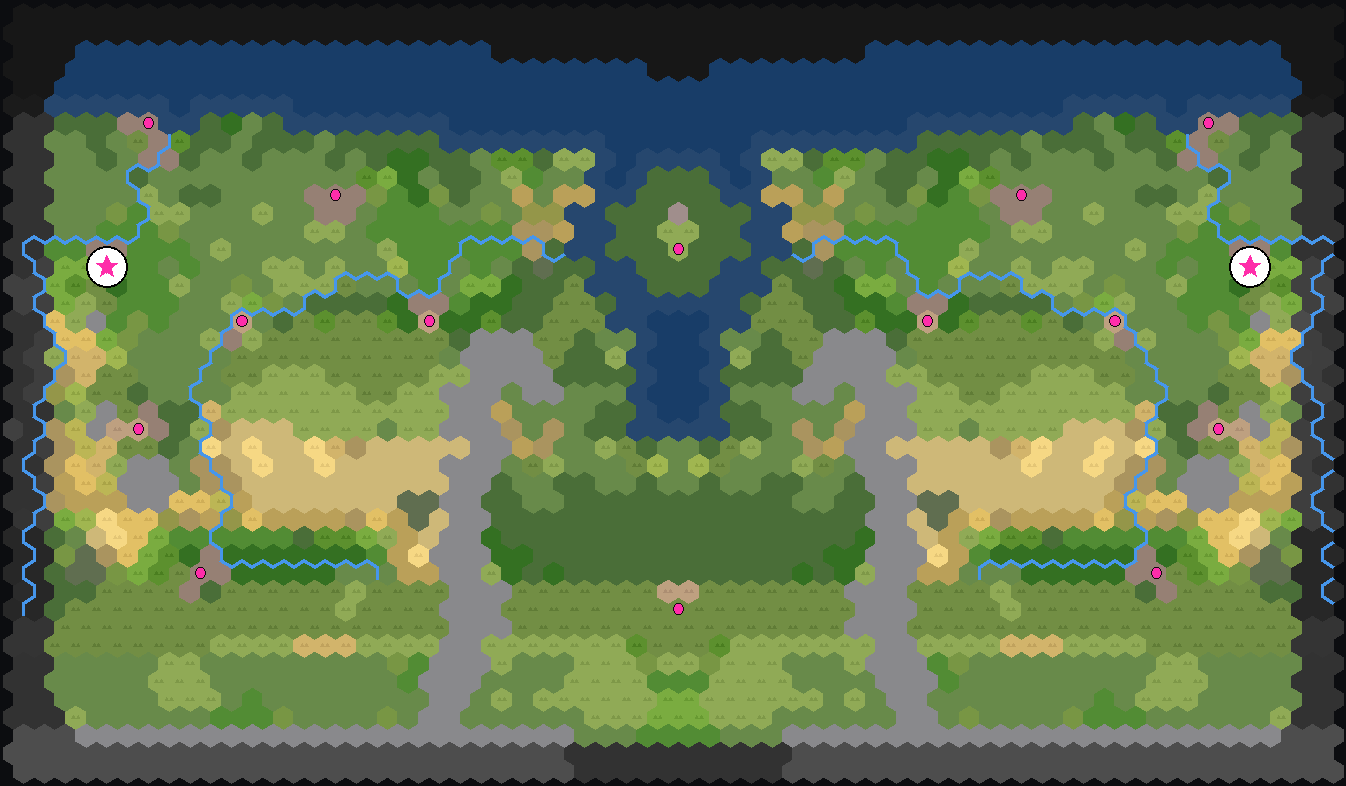
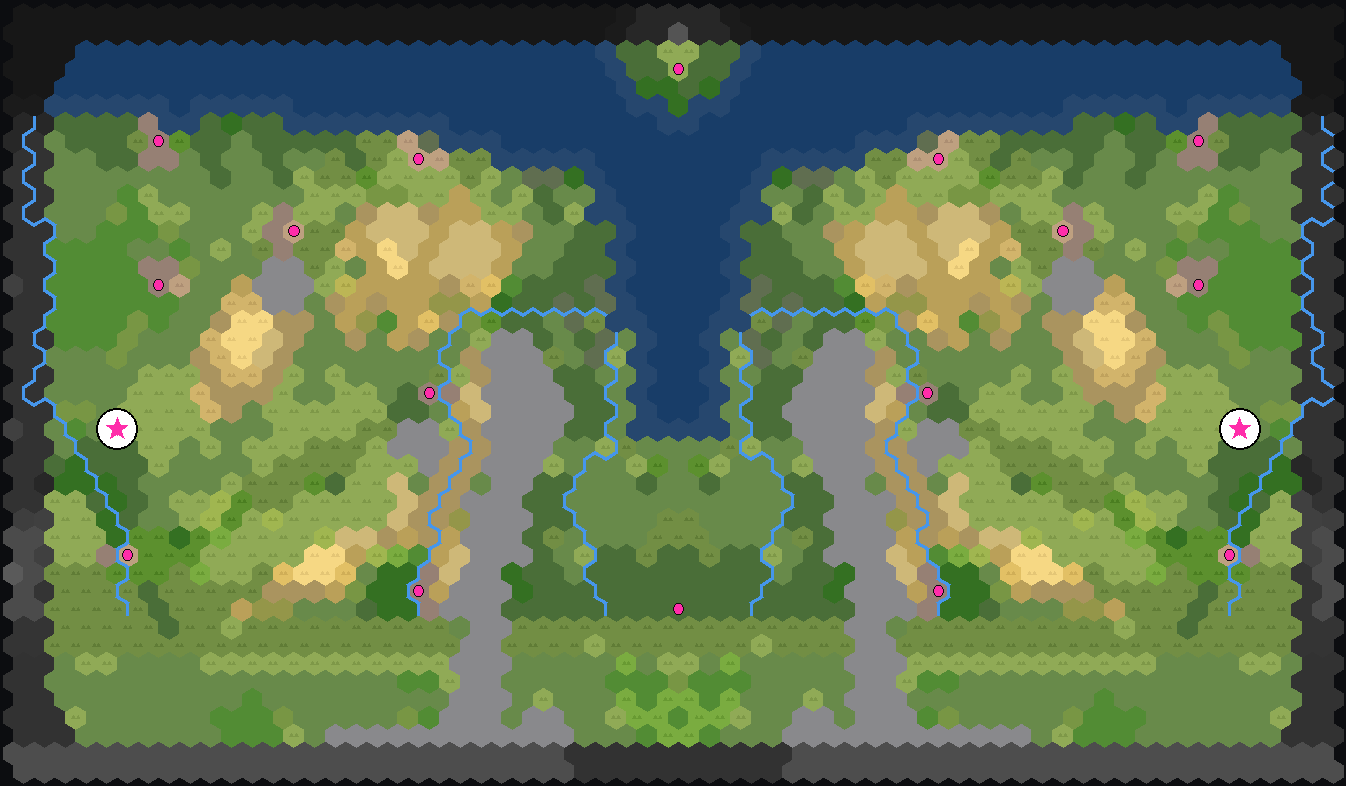
Wobbled organic range + half-island volcano at the sea edge
- the locked range's depth now varies per column (2-6 rows, the same
  mirror-symmetric random walk as the coastline) so it bulges into
  lobes and pulls back into foothill valleys instead of a ruler line;
  the engine grows organic peaks in the dips
- the volcanic island is now a HALF-island pressed against the sea
  edge: the cone juts out of the ocean at the map border, clipped by
  it, still sea-locked from the mainland by the water ring
- coastline wobble strengthened slightly (the bay-mouth basin no
  longer adds variety mid-map)
- sweep invariants: range must meander (>=3 distinct depths); island
  must touch the sea edge; second-wall band ends at the lobes (h-6);
  capital-boxed check now measures mountains only (coastal capitals
  with open water are fine); massif threshold 12 (pocket-fill headroom)

diff --git a/atlas/index.html b/atlas/index.html
@@ -34,7 +34,7 @@ h1 { margin: 0 0 4px; font: 600 18px/1.2 ui-monospace, Menlo, monospace;
 <header><h1>Caldera Bay — Climate Atlas</h1>
 <div class="sub">8 Mediterranean · 8 Temperate · 8 Northern (same seeds 1–8 per regime) ·
 <code>Climate (latitude)</code> map option</div></header>
-<h2 class="section">Mediterranean (warm) — 8 gens</h2><div class="grid"><div class="card"><img src="maps/Caldera_Bay_smallest_Mediterranean-1.png" loading="lazy"><div class="meta"><div class="seed">seed Mediterranean-1</div><div class="chips"><span class="chip">64×43</span><span class="chip">14% flat-lush</span><span class="chip">water 673</span><span class="chip">mtn 251</span><span class="chip bad">rivers 193</span><span class="chip bad">forest 387</span><span class="chip ok">2 starts</span><span class="chip ok">mirror-sym</span><span class="chip">sites 14</span><span class="chip">tribes 10</span><span class="chip">res 122</span></div></div></div><div class="card"><img src="maps/Caldera_Bay_smallest_Mediterranean-2.png" loading="lazy"><div class="meta"><div class="seed">seed Mediterranean-2</div><div class="chips"><span class="chip">64×43</span><span class="chip">10% flat-lush</span><span class="chip">water 565</span><span class="chip">mtn 249</span><span class="chip bad">rivers 183</span><span class="chip bad">forest 386</span><span class="chip ok">2 starts</span><span class="chip ok">mirror-sym</span><span class="chip">sites 16</span><span class="chip">tribes 12</span><span class="chip">res 124</span></div></div></div><div class="card"><img src="maps/Caldera_Bay_smallest_Mediterranean-3.png" loading="lazy"><div class="meta"><div class="seed">seed Mediterranean-3</div><div class="chips"><span class="chip">64×43</span><span class="chip">12% flat-lush</span><span class="chip">water 621</span><span class="chip">mtn 291</span><span class="chip bad">rivers 166</span><span class="chip bad">forest 335</span><span class="chip ok">2 starts</span><span class="chip ok">mirror-sym</span><span class="chip">sites 18</span><span class="chip">tribes 12</span><span class="chip">res 117</span></div></div></div><div class="card"><img src="maps/Caldera_Bay_smallest_Mediterranean-4.png" loading="lazy"><div class="meta"><div class="seed">seed Mediterranean-4</div><div class="chips"><span class="chip">64×43</span><span class="chip">11% flat-lush</span><span class="chip">water 562</span><span class="chip">mtn 269</span><span class="chip bad">rivers 211</span><span class="chip bad">forest 375</span><span class="chip ok">2 starts</span><span class="chip ok">mirror-sym</span><span class="chip">sites 18</span><span class="chip">tribes 12</span><span class="chip">res 130</span></div></div></div><div class="card"><img src="maps/Caldera_Bay_smallest_Mediterranean-5.png" loading="lazy"><div class="meta"><div class="seed">seed Mediterranean-5</div><div class="chips"><span class="chip">64×43</span><span class="chip">6% flat-lush</span><span class="chip">water 562</span><span class="chip">mtn 325</span><span class="chip bad">rivers 32</span><span class="chip bad">forest 391</span><span class="chip ok">2 starts</span><span class="chip ok">mirror-sym</span><span class="chip">sites 14</span><span class="chip">tribes 10</span><span class="chip">res 114</span></div></div></div><div class="card"><img src="maps/Caldera_Bay_smallest_Mediterranean-6.png" loading="lazy"><div class="meta"><div class="seed">seed Mediterranean-6</div><div class="chips"><span class="chip">64×43</span><span class="chip">12% flat-lush</span><span class="chip">water 529</span><span class="chip">mtn 301</span><span class="chip bad">rivers 192</span><span class="chip bad">forest 390</span><span class="chip ok">2 starts</span><span class="chip ok">mirror-sym</span><span class="chip">sites 16</span><span class="chip">tribes 12</span><span class="chip">res 129</span></div></div></div><div class="card"><img src="maps/Caldera_Bay_smallest_Mediterranean-7.png" loading="lazy"><div class="meta"><div class="seed">seed Mediterranean-7</div><div class="chips"><span class="chip">64×43</span><span class="chip">15% flat-lush</span><span class="chip">water 568</span><span class="chip">mtn 300</span><span class="chip bad">rivers 211</span><span class="chip bad">forest 266</span><span class="chip ok">2 starts</span><span class="chip ok">mirror-sym</span><span class="chip">sites 16</span><span class="chip">tribes 12</span><span class="chip">res 100</span></div></div></div><div class="card"><img src="maps/Caldera_Bay_smallest_Mediterranean-8.png" loading="lazy"><div class="meta"><div class="seed">seed Mediterranean-8</div><div class="chips"><span class="chip">64×43</span><span class="chip">9% flat-lush</span><span class="chip">water 629</span><span class="chip">mtn 295</span><span class="chip bad">rivers 213</span><span class="chip bad">forest 347</span><span class="chip ok">2 starts</span><span class="chip ok">mirror-sym</span><span class="chip">sites 18</span><span class="chip">tribes 12</span><span class="chip">res 108</span></div></div></div></div><h2 class="section">Temperate — 8 gens</h2><div class="grid"><div class="card"><img src="maps/Caldera_Bay_smallest_Temperate-1.png" loading="lazy"><div class="meta"><div class="seed">seed Temperate-1</div><div class="chips"><span class="chip">64×43</span><span class="chip">15% flat-lush</span><span class="chip">water 673</span><span class="chip">mtn 251</span><span class="chip bad">rivers 193</span><span class="chip bad">forest 419</span><span class="chip ok">2 starts</span><span class="chip ok">mirror-sym</span><span class="chip">sites 14</span><span class="chip">tribes 10</span><span class="chip">res 124</span></div></div></div><div class="card"><img src="maps/Caldera_Bay_smallest_Temperate-2.png" loading="lazy"><div class="meta"><div class="seed">seed Temperate-2</div><div class="chips"><span class="chip">64×43</span><span class="chip">11% flat-lush</span><span class="chip">water 565</span><span class="chip">mtn 249</span><span class="chip bad">rivers 183</span><span class="chip bad">forest 445</span><span class="chip ok">2 starts</span><span class="chip ok">mirror-sym</span><span class="chip">sites 16</span><span class="chip">tribes 12</span><span class="chip">res 121</span></div></div></div><div class="card"><img src="maps/Caldera_Bay_smallest_Temperate-3.png" loading="lazy"><div class="meta"><div class="seed">seed Temperate-3</div><div class="chips"><span class="chip">64×43</span><span class="chip">13% flat-lush</span><span class="chip">water 621</span><span class="chip">mtn 291</span><span class="chip bad">rivers 166</span><span class="chip bad">forest 380</span><span class="chip ok">2 starts</span><span class="chip ok">mirror-sym</span><span class="chip">sites 18</span><span class="chip">tribes 12</span><span class="chip">res 118</span></div></div></div><div class="card"><img src="maps/Caldera_Bay_smallest_Temperate-4.png" loading="lazy"><div class="meta"><div class="seed">seed Temperate-4</div><div class="chips"><span class="chip">64×43</span><span class="chip">11% flat-lush</span><span class="chip">water 562</span><span class="chip">mtn 269</span><span class="chip bad">rivers 211</span><span class="chip bad">forest 367</span><span class="chip ok">2 starts</span><span class="chip ok">mirror-sym</span><span class="chip">sites 18</span><span class="chip">tribes 12</span><span class="chip">res 133</span></div></div></div><div class="card"><img src="maps/Caldera_Bay_smallest_Temperate-5.png" loading="lazy"><div class="meta"><div class="seed">seed Temperate-5</div><div class="chips"><span class="chip">64×43</span><span class="chip">7% flat-lush</span><span class="chip">water 562</span><span class="chip">mtn 323</span><span class="chip bad">rivers 32</span><span class="chip bad">forest 424</span><span class="chip ok">2 starts</span><span class="chip ok">mirror-sym</span><span class="chip">sites 16</span><span class="chip">tribes 10</span><span class="chip">res 125</span></div></div></div><div class="card"><img src="maps/Caldera_Bay_smallest_Temperate-6.png" loading="lazy"><div class="meta"><div class="seed">seed Temperate-6</div><div class="chips"><span class="chip">64×43</span><span class="chip">13% flat-lush</span><span class="chip">water 529</span><span class="chip">mtn 301</span><span class="chip bad">rivers 192</span><span class="chip bad">forest 401</span><span class="chip ok">2 starts</span><span class="chip ok">mirror-sym</span><span class="chip">sites 18</span><span class="chip">tribes 12</span><span class="chip">res 122</span></div></div></div><div class="card"><img src="maps/Caldera_Bay_smallest_Temperate-7.png" loading="lazy"><div class="meta"><div class="seed">seed Temperate-7</div><div class="chips"><span class="chip">64×43</span><span class="chip">16% flat-lush</span><span class="chip">water 568</span><span class="chip">mtn 300</span><span class="chip bad">rivers 211</span><span class="chip bad">forest 283</span><span class="chip ok">2 starts</span><span class="chip ok">mirror-sym</span><span class="chip">sites 16</span><span class="chip">tribes 12</span><span class="chip">res 119</span></div></div></div><div class="card"><img src="maps/Caldera_Bay_smallest_Temperate-8.png" loading="lazy"><div class="meta"><div class="seed">seed Temperate-8</div><div class="chips"><span class="chip">64×43</span><span class="chip">9% flat-lush</span><span class="chip">water 629</span><span class="chip">mtn 297</span><span class="chip bad">rivers 213</span><span class="chip bad">forest 377</span><span class="chip ok">2 starts</span><span class="chip ok">mirror-sym</span><span class="chip">sites 18</span><span class="chip">tribes 12</span><span class="chip">res 108</span></div></div></div></div><h2 class="section">Northern (cold) — 8 gens</h2><div class="grid"><div class="card"><img src="maps/Caldera_Bay_smallest_Northern-1.png" loading="lazy"><div class="meta"><div class="seed">seed Northern-1</div><div class="chips"><span class="chip">64×43</span><span class="chip">13% flat-lush</span><span class="chip">water 673</span><span class="chip">mtn 251</span><span class="chip bad">rivers 193</span><span class="chip bad">forest 416</span><span class="chip ok">2 starts</span><span class="chip ok">mirror-sym</span><span class="chip">sites 14</span><span class="chip">tribes 10</span><span class="chip">res 131</span></div></div></div><div class="card"><img src="maps/Caldera_Bay_smallest_Northern-2.png" loading="lazy"><div class="meta"><div class="seed">seed Northern-2</div><div class="chips"><span class="chip">64×43</span><span class="chip">8% flat-lush</span><span class="chip">water 565</span><span class="chip">mtn 249</span><span class="chip bad">rivers 183</span><span class="chip bad">forest 426</span><span class="chip ok">2 starts</span><span class="chip ok">mirror-sym</span><span class="chip">sites 16</span><span class="chip">tribes 12</span><span class="chip">res 132</span></div></div></div><div class="card"><img src="maps/Caldera_Bay_smallest_Northern-3.png" loading="lazy"><div class="meta"><div class="seed">seed Northern-3</div><div class="chips"><span class="chip">64×43</span><span class="chip">12% flat-lush</span><span class="chip">water 621</span><span class="chip">mtn 293</span><span class="chip bad">rivers 166</span><span class="chip bad">forest 378</span><span class="chip ok">2 starts</span><span class="chip ok">mirror-sym</span><span class="chip">sites 18</span><span class="chip">tribes 12</span><span class="chip">res 116</span></div></div></div><div class="card"><img src="maps/Caldera_Bay_smallest_Northern-4.png" loading="lazy"><div class="meta"><div class="seed">seed Northern-4</div><div class="chips"><span class="chip">64×43</span><span class="chip">11% flat-lush</span><span class="chip">water 562</span><span class="chip">mtn 269</span><span class="chip bad">rivers 211</span><span class="chip bad">forest 366</span><span class="chip ok">2 starts</span><span class="chip ok">mirror-sym</span><span class="chip">sites 18</span><span class="chip">tribes 12</span><span class="chip">res 135</span></div></div></div><div class="card"><img src="maps/Caldera_Bay_smallest_Northern-5.png" loading="lazy"><div class="meta"><div class="seed">seed Northern-5</div><div class="chips"><span class="chip">64×43</span><span class="chip">5% flat-lush</span><span class="chip">water 562</span><span class="chip">mtn 337</span><span class="chip bad">rivers 32</span><span class="chip bad">forest 428</span><span class="chip ok">2 starts</span><span class="chip ok">mirror-sym</span><span class="chip">sites 16</span><span class="chip">tribes 10</span><span class="chip">res 112</span></div></div></div><div class="card"><img src="maps/Caldera_Bay_smallest_Northern-6.png" loading="lazy"><div class="meta"><div class="seed">seed Northern-6</div><div class="chips"><span class="chip">64×43</span><span class="chip">13% flat-lush</span><span class="chip">water 529</span><span class="chip">mtn 301</span><span class="chip bad">rivers 192</span><span class="chip bad">forest 402</span><span class="chip ok">2 starts</span><span class="chip ok">mirror-sym</span><span class="chip">sites 18</span><span class="chip">tribes 12</span><span class="chip">res 92</span></div></div></div><div class="card"><img src="maps/Caldera_Bay_smallest_Northern-7.png" loading="lazy"><div class="meta"><div class="seed">seed Northern-7</div><div class="chips"><span class="chip">64×43</span><span class="chip">14% flat-lush</span><span class="chip">water 568</span><span class="chip">mtn 300</span><span class="chip bad">rivers 211</span><span class="chip bad">forest 285</span><span class="chip ok">2 starts</span><span class="chip ok">mirror-sym</span><span class="chip">sites 16</span><span class="chip">tribes 12</span><span class="chip">res 112</span></div></div></div><div class="card"><img src="maps/Caldera_Bay_smallest_Northern-8.png" loading="lazy"><div class="meta"><div class="seed">seed Northern-8</div><div class="chips"><span class="chip">64×43</span><span class="chip">9% flat-lush</span><span class="chip">water 629</span><span class="chip">mtn 295</span><span class="chip bad">rivers 213</span><span class="chip bad">forest 356</span><span class="chip ok">2 starts</span><span class="chip ok">mirror-sym</span><span class="chip">sites 18</span><span class="chip">tribes 12</span><span class="chip">res 120</span></div></div></div></div>
+<h2 class="section">Mediterranean (warm) — 8 gens</h2><div class="grid"><div class="card"><img src="maps/Caldera_Bay_smallest_Mediterranean-1.png" loading="lazy"><div class="meta"><div class="seed">seed Mediterranean-1</div><div class="chips"><span class="chip">64×43</span><span class="chip">12% flat-lush</span><span class="chip">water 675</span><span class="chip">mtn 353</span><span class="chip bad">rivers 192</span><span class="chip bad">forest 400</span><span class="chip ok">2 starts</span><span class="chip ok">mirror-sym</span><span class="chip">sites 16</span><span class="chip">tribes 12</span><span class="chip">res 98</span></div></div></div><div class="card"><img src="maps/Caldera_Bay_smallest_Mediterranean-2.png" loading="lazy"><div class="meta"><div class="seed">seed Mediterranean-2</div><div class="chips"><span class="chip">64×43</span><span class="chip">7% flat-lush</span><span class="chip">water 538</span><span class="chip">mtn 329</span><span class="chip bad">rivers 182</span><span class="chip bad">forest 385</span><span class="chip ok">2 starts</span><span class="chip ok">mirror-sym</span><span class="chip">sites 16</span><span class="chip">tribes 12</span><span class="chip">res 116</span></div></div></div><div class="card"><img src="maps/Caldera_Bay_smallest_Mediterranean-3.png" loading="lazy"><div class="meta"><div class="seed">seed Mediterranean-3</div><div class="chips"><span class="chip">64×43</span><span class="chip">13% flat-lush</span><span class="chip">water 604</span><span class="chip">mtn 259</span><span class="chip bad">rivers 179</span><span class="chip bad">forest 277</span><span class="chip ok">2 starts</span><span class="chip ok">mirror-sym</span><span class="chip">sites 14</span><span class="chip">tribes 10</span><span class="chip">res 122</span></div></div></div><div class="card"><img src="maps/Caldera_Bay_smallest_Mediterranean-4.png" loading="lazy"><div class="meta"><div class="seed">seed Mediterranean-4</div><div class="chips"><span class="chip">64×43</span><span class="chip">11% flat-lush</span><span class="chip">water 496</span><span class="chip">mtn 359</span><span class="chip bad">rivers 225</span><span class="chip bad">forest 384</span><span class="chip ok">2 starts</span><span class="chip ok">mirror-sym</span><span class="chip">sites 16</span><span class="chip">tribes 12</span><span class="chip">res 133</span></div></div></div><div class="card"><img src="maps/Caldera_Bay_smallest_Mediterranean-5.png" loading="lazy"><div class="meta"><div class="seed">seed Mediterranean-5</div><div class="chips"><span class="chip">64×43</span><span class="chip">10% flat-lush</span><span class="chip">water 572</span><span class="chip">mtn 359</span><span class="chip bad">rivers 202</span><span class="chip bad">forest 406</span><span class="chip ok">2 starts</span><span class="chip ok">mirror-sym</span><span class="chip">sites 16</span><span class="chip">tribes 10</span><span class="chip">res 111</span></div></div></div><div class="card"><img src="maps/Caldera_Bay_smallest_Mediterranean-6.png" loading="lazy"><div class="meta"><div class="seed">seed Mediterranean-6</div><div class="chips"><span class="chip">64×43</span><span class="chip">10% flat-lush</span><span class="chip">water 534</span><span class="chip">mtn 287</span><span class="chip bad">rivers 198</span><span class="chip bad">forest 351</span><span class="chip ok">2 starts</span><span class="chip ok">mirror-sym</span><span class="chip">sites 18</span><span class="chip">tribes 12</span><span class="chip">res 112</span></div></div></div><div class="card"><img src="maps/Caldera_Bay_smallest_Mediterranean-7.png" loading="lazy"><div class="meta"><div class="seed">seed Mediterranean-7</div><div class="chips"><span class="chip">64×43</span><span class="chip">15% flat-lush</span><span class="chip">water 535</span><span class="chip">mtn 275</span><span class="chip bad">rivers 197</span><span class="chip bad">forest 368</span><span class="chip ok">2 starts</span><span class="chip ok">mirror-sym</span><span class="chip">sites 16</span><span class="chip">tribes 12</span><span class="chip">res 110</span></div></div></div><div class="card"><img src="maps/Caldera_Bay_smallest_Mediterranean-8.png" loading="lazy"><div class="meta"><div class="seed">seed Mediterranean-8</div><div class="chips"><span class="chip">64×43</span><span class="chip">12% flat-lush</span><span class="chip">water 620</span><span class="chip">mtn 326</span><span class="chip bad">rivers 221</span><span class="chip bad">forest 298</span><span class="chip ok">2 starts</span><span class="chip ok">mirror-sym</span><span class="chip">sites 16</span><span class="chip">tribes 10</span><span class="chip">res 110</span></div></div></div></div><h2 class="section">Temperate — 8 gens</h2><div class="grid"><div class="card"><img src="maps/Caldera_Bay_smallest_Temperate-1.png" loading="lazy"><div class="meta"><div class="seed">seed Temperate-1</div><div class="chips"><span class="chip">64×43</span><span class="chip">12% flat-lush</span><span class="chip">water 675</span><span class="chip">mtn 345</span><span class="chip bad">rivers 192</span><span class="chip bad">forest 443</span><span class="chip ok">2 starts</span><span class="chip ok">mirror-sym</span><span class="chip">sites 16</span><span class="chip">tribes 12</span><span class="chip">res 108</span></div></div></div><div class="card"><img src="maps/Caldera_Bay_smallest_Temperate-2.png" loading="lazy"><div class="meta"><div class="seed">seed Temperate-2</div><div class="chips"><span class="chip">64×43</span><span class="chip">9% flat-lush</span><span class="chip">water 538</span><span class="chip">mtn 329</span><span class="chip bad">rivers 182</span><span class="chip bad">forest 443</span><span class="chip ok">2 starts</span><span class="chip ok">mirror-sym</span><span class="chip">sites 18</span><span class="chip">tribes 12</span><span class="chip">res 118</span></div></div></div><div class="card"><img src="maps/Caldera_Bay_smallest_Temperate-3.png" loading="lazy"><div class="meta"><div class="seed">seed Temperate-3</div><div class="chips"><span class="chip">64×43</span><span class="chip">13% flat-lush</span><span class="chip">water 604</span><span class="chip">mtn 247</span><span class="chip bad">rivers 179</span><span class="chip bad">forest 298</span><span class="chip ok">2 starts</span><span class="chip ok">mirror-sym</span><span class="chip">sites 14</span><span class="chip">tribes 10</span><span class="chip">res 108</span></div></div></div><div class="card"><img src="maps/Caldera_Bay_smallest_Temperate-4.png" loading="lazy"><div class="meta"><div class="seed">seed Temperate-4</div><div class="chips"><span class="chip">64×43</span><span class="chip">12% flat-lush</span><span class="chip">water 496</span><span class="chip">mtn 357</span><span class="chip bad">rivers 225</span><span class="chip bad">forest 417</span><span class="chip ok">2 starts</span><span class="chip ok">mirror-sym</span><span class="chip">sites 16</span><span class="chip">tribes 12</span><span class="chip">res 110</span></div></div></div><div class="card"><img src="maps/Caldera_Bay_smallest_Temperate-5.png" loading="lazy"><div class="meta"><div class="seed">seed Temperate-5</div><div class="chips"><span class="chip">64×43</span><span class="chip">10% flat-lush</span><span class="chip">water 572</span><span class="chip">mtn 359</span><span class="chip bad">rivers 202</span><span class="chip bad">forest 488</span><span class="chip ok">2 starts</span><span class="chip ok">mirror-sym</span><span class="chip">sites 16</span><span class="chip">tribes 12</span><span class="chip">res 102</span></div></div></div><div class="card"><img src="maps/Caldera_Bay_smallest_Temperate-6.png" loading="lazy"><div class="meta"><div class="seed">seed Temperate-6</div><div class="chips"><span class="chip">64×43</span><span class="chip">10% flat-lush</span><span class="chip">water 534</span><span class="chip">mtn 287</span><span class="chip bad">rivers 198</span><span class="chip bad">forest 375</span><span class="chip ok">2 starts</span><span class="chip ok">mirror-sym</span><span class="chip">sites 16</span><span class="chip">tribes 12</span><span class="chip">res 100</span></div></div></div><div class="card"><img src="maps/Caldera_Bay_smallest_Temperate-7.png" loading="lazy"><div class="meta"><div class="seed">seed Temperate-7</div><div class="chips"><span class="chip">64×43</span><span class="chip">15% flat-lush</span><span class="chip">water 535</span><span class="chip">mtn 275</span><span class="chip bad">rivers 197</span><span class="chip bad">forest 378</span><span class="chip ok">2 starts</span><span class="chip ok">mirror-sym</span><span class="chip">sites 16</span><span class="chip">tribes 12</span><span class="chip">res 135</span></div></div></div><div class="card"><img src="maps/Caldera_Bay_smallest_Temperate-8.png" loading="lazy"><div class="meta"><div class="seed">seed Temperate-8</div><div class="chips"><span class="chip">64×43</span><span class="chip">12% flat-lush</span><span class="chip">water 620</span><span class="chip">mtn 324</span><span class="chip bad">rivers 221</span><span class="chip bad">forest 361</span><span class="chip ok">2 starts</span><span class="chip ok">mirror-sym</span><span class="chip">sites 16</span><span class="chip">tribes 10</span><span class="chip">res 116</span></div></div></div></div><h2 class="section">Northern (cold) — 8 gens</h2><div class="grid"><div class="card"><img src="maps/Caldera_Bay_smallest_Northern-1.png" loading="lazy"><div class="meta"><div class="seed">seed Northern-1</div><div class="chips"><span class="chip">64×43</span><span class="chip">12% flat-lush</span><span class="chip">water 675</span><span class="chip">mtn 355</span><span class="chip bad">rivers 192</span><span class="chip bad">forest 440</span><span class="chip ok">2 starts</span><span class="chip ok">mirror-sym</span><span class="chip">sites 16</span><span class="chip">tribes 12</span><span class="chip">res 112</span></div></div></div><div class="card"><img src="maps/Caldera_Bay_smallest_Northern-2.png" loading="lazy"><div class="meta"><div class="seed">seed Northern-2</div><div class="chips"><span class="chip">64×43</span><span class="chip">6% flat-lush</span><span class="chip">water 538</span><span class="chip">mtn 329</span><span class="chip bad">rivers 182</span><span class="chip bad">forest 445</span><span class="chip ok">2 starts</span><span class="chip ok">mirror-sym</span><span class="chip">sites 16</span><span class="chip">tribes 12</span><span class="chip">res 115</span></div></div></div><div class="card"><img src="maps/Caldera_Bay_smallest_Northern-3.png" loading="lazy"><div class="meta"><div class="seed">seed Northern-3</div><div class="chips"><span class="chip">64×43</span><span class="chip">13% flat-lush</span><span class="chip">water 604</span><span class="chip">mtn 259</span><span class="chip bad">rivers 179</span><span class="chip bad">forest 293</span><span class="chip ok">2 starts</span><span class="chip ok">mirror-sym</span><span class="chip">sites 14</span><span class="chip">tribes 10</span><span class="chip">res 92</span></div></div></div><div class="card"><img src="maps/Caldera_Bay_smallest_Northern-4.png" loading="lazy"><div class="meta"><div class="seed">seed Northern-4</div><div class="chips"><span class="chip">64×43</span><span class="chip">11% flat-lush</span><span class="chip">water 496</span><span class="chip">mtn 357</span><span class="chip bad">rivers 225</span><span class="chip bad">forest 413</span><span class="chip ok">2 starts</span><span class="chip ok">mirror-sym</span><span class="chip">sites 18</span><span class="chip">tribes 12</span><span class="chip">res 112</span></div></div></div><div class="card"><img src="maps/Caldera_Bay_smallest_Northern-5.png" loading="lazy"><div class="meta"><div class="seed">seed Northern-5</div><div class="chips"><span class="chip">64×43</span><span class="chip">9% flat-lush</span><span class="chip">water 572</span><span class="chip">mtn 359</span><span class="chip bad">rivers 202</span><span class="chip bad">forest 465</span><span class="chip ok">2 starts</span><span class="chip ok">mirror-sym</span><span class="chip">sites 18</span><span class="chip">tribes 12</span><span class="chip">res 116</span></div></div></div><div class="card"><img src="maps/Caldera_Bay_smallest_Northern-6.png" loading="lazy"><div class="meta"><div class="seed">seed Northern-6</div><div class="chips"><span class="chip">64×43</span><span class="chip">10% flat-lush</span><span class="chip">water 534</span><span class="chip">mtn 287</span><span class="chip bad">rivers 198</span><span class="chip bad">forest 377</span><span class="chip ok">2 starts</span><span class="chip ok">mirror-sym</span><span class="chip">sites 16</span><span class="chip">tribes 12</span><span class="chip">res 124</span></div></div></div><div class="card"><img src="maps/Caldera_Bay_smallest_Northern-7.png" loading="lazy"><div class="meta"><div class="seed">seed Northern-7</div><div class="chips"><span class="chip">64×43</span><span class="chip">15% flat-lush</span><span class="chip">water 535</span><span class="chip">mtn 275</span><span class="chip bad">rivers 197</span><span class="chip bad">forest 365</span><span class="chip ok">2 starts</span><span class="chip ok">mirror-sym</span><span class="chip">sites 16</span><span class="chip">tribes 12</span><span class="chip">res 99</span></div></div></div><div class="card"><img src="maps/Caldera_Bay_smallest_Northern-8.png" loading="lazy"><div class="meta"><div class="seed">seed Northern-8</div><div class="chips"><span class="chip">64×43</span><span class="chip">11% flat-lush</span><span class="chip">water 620</span><span class="chip">mtn 326</span><span class="chip bad">rivers 221</span><span class="chip bad">forest 341</span><span class="chip ok">2 starts</span><span class="chip ok">mirror-sym</span><span class="chip">sites 16</span><span class="chip">tribes 12</span><span class="chip">res 118</span></div></div></div></div>
 <div id="lb"><img alt=""></div>
 <script>
 const lb = document.getElementById('lb'), lbimg = lb.querySelector('img');

diff --git a/tests/test_caldera_bay.py b/tests/test_caldera_bay.py
@@ -103,10 +103,13 @@ class CalderaBayMap(unittest.TestCase):
 
     def test_sea_at_least_five_tall(self):
         # the sea band on the sea edge is ≥5 tiles in every column (a line of
-        # ships can't easily wall it off).
+        # ships can't easily wall it off) — except where the half-island
+        # volcano juts out of the ocean at the map border.
         side, _ = self.sea_side()
         worst = 99
         for x in range(self.w):
+            if abs(x - (self.w - 1) / 2) <= 8:
+                continue                       # the half-island's columns
             d = 0
             ys = range(self.h) if side == "south" else range(self.h - 1, -1, -1)
             for y in ys:
@@ -119,7 +122,8 @@ class CalderaBayMap(unittest.TestCase):
 
     def test_one_sea_edge(self):
         side, edge = self.sea_side()
-        self.assertGreater(edge, self.w * 0.9, "the sea edge should be ~all water")
+        # ~all water apart from the half-island clipped by the border
+        self.assertGreater(edge, self.w * 0.8, "the sea edge should be ~all water")
         far = self.h - 1 if side == "south" else 0
         farw = sum(1 for x in range(self.w) if self.is_water(x, far))
         self.assertLess(farw, self.w * 0.3,
@@ -368,6 +372,8 @@ class CalderaBaySweep(unittest.TestCase):
                    else sum(1 for x in range(w) if wat(x, 0)))
             depth = 99
             for x in range(w):
+                if abs(x - (w - 1) / 2) <= 8:
+                    continue                  # the half-island's columns
                 dcol = 0
                 for y in (range(h) if south else range(h - 1, -1, -1)):
                     if wat(x, y):
@@ -377,13 +383,14 @@ class CalderaBaySweep(unittest.TestCase):
                 depth = min(depth, dcol)
             if not 14 <= sites <= 18:
                 problems.append(f"{name}: {sites} sites")
-            # no SECOND mountain wall in the piedmont band below the range, and
-            # no city sites wedged on a shelf against the range
+            # no SECOND mountain wall in the piedmont band below the range
+            # (the wobbled range's own lobes reach down to d=h-6), and no
+            # city sites wedged on a shelf against the range
             for y in range(h):
                 d = y if south else h - 1 - y
                 row_mtn = sum(1 for x in range(w)
                               if _t(tiles[y * w + x], "Height") == "HEIGHT_MOUNTAIN")
-                if h - 13 <= d < h - 3 and row_mtn > w * 0.3:
+                if h - 13 <= d < h - 6 and row_mtn > w * 0.3:
                     problems.append(f"{name}: second wall ({row_mtn} mtns at d={d})")
                 if d >= h - 8:
                     row_sites = sum(1 for x in range(w)
@@ -399,6 +406,8 @@ class CalderaBaySweep(unittest.TestCase):
             # coastline must meander (wobbled band) — several distinct depths
             depths = set()
             for x in range(w):
+                if abs(x - (w - 1) / 2) <= 8:
+                    continue                  # the half-island's columns
                 dcol = 0
                 for y in (range(h) if south else range(h - 1, -1, -1)):
                     if wat(x, y):
@@ -470,6 +479,22 @@ class CalderaBaySweep(unittest.TestCase):
                 problems.append(f"{name}: only {n_tribe} tribe-held sites")
             if n_free < 4:
                 problems.append(f"{name}: only {n_free} free sites")
+            # the range must MEANDER like the coastline (wobbled lobes and
+            # valleys, not a ruler line): several distinct mountain-run depths
+            # from the far edge across the columns outside the gorge
+            rdepths = set()
+            for x in range(3, w - 3):
+                if abs(x - (w - 1) / 2) < 0.1 * w:
+                    continue                      # skip the gorge breach
+                dcol = 0
+                for y in (range(h - 1, -1, -1) if south else range(h)):
+                    if _t(tiles[y * w + x], "Height") == "HEIGHT_MOUNTAIN":
+                        dcol += 1
+                    else:
+                        break
+                rdepths.add(dcol)
+            if len(rdepths) < 3:
+                problems.append(f"{name}: range too straight ({len(rdepths)} depths)")
             # spur walls must run unbroken into the range: every row of the
             # piedmont band has at least one mountain on each side
             for dd in range(h - 7, h - 3):
@@ -564,21 +589,22 @@ class CalderaBaySweep(unittest.TestCase):
                     has_plain |= dd < h - 13
                     has_range |= dd >= h - 3
                     stack.extend(neighbors(cx, cy))
-                if has_plain and not has_range and len(comp) > 7:
+                if has_plain and not has_range and len(comp) > 12:
                     problems.append(
                         f"{name}: detached {len(comp)}-tile massif in the plain"
                         f" near {comp[0]}")
-            # capitals must not start boxed in: plenty of passable land close by
+            # capitals must not start boxed in by mountains (a coastal capital
+            # with open water around it is fine — the concern is rock walls)
             for p in root.findall("./PlayerStarts/PlayerStart"):
                 sxy = (int(p.attrib["X"]), int(p.attrib["Y"]))
-                open_land = sum(
-                    1 for i, t in enumerate(tiles)
-                    if hexdist((i % w, i // w), sxy) <= 4
-                    and _t(t, "Terrain") != "TERRAIN_WATER"
-                    and _t(t, "Height") not in ("HEIGHT_MOUNTAIN", "HEIGHT_VOLCANO"))
-                if open_land < 30:
+                area = [t for i, t in enumerate(tiles)
+                        if hexdist((i % w, i // w), sxy) <= 4]
+                mtns = sum(1 for t in area if _t(t, "Height")
+                           in ("HEIGHT_MOUNTAIN", "HEIGHT_VOLCANO"))
+                if mtns > len(area) * 0.28:
                     problems.append(
-                        f"{name}: capital {sxy} boxed in ({open_land} open tiles)")
+                        f"{name}: capital {sxy} boxed in "
+                        f"({mtns}/{len(area)} mountain)")
         self.assertEqual(problems, [], "structure problems:\n" + "\n".join(problems))
 
 

diff --git a/src/CalderaBay.cs b/src/CalderaBay.cs
@@ -227,16 +227,31 @@ namespace OwMapCreation
             double wob = 0;
             for (int k = 0; k <= half; k++)
             {
-                wob += (random.Next(3) - 1) * 0.8;
-                wob = Math.Max(-1.5, Math.Min(2.5, wob));
+                wob += (random.Next(3) - 1) * 0.9;
+                wob = Math.Max(-2.0, Math.Min(3.0, wob));
                 depthHalf[k] = Math.Max(6, seaBand + (int)Math.Round(wob));
             }
 
-            // BIG VOLCANIC ISLAND in a lagoon basin: radius ~2.6–3.4 (≈25–35 land
-            // tiles), sitting in a widened bay-mouth basin that guarantees a ≥2-tile
-            // water ring around it (so it is always sea-locked).
-            mIslandR = 2.6 + random.Next(9) / 10.0;          // 2.6–3.4
-            int islandD = seaBand + (int)Math.Ceiling(mIslandR) + 2;
+            // WOBBLED RANGE: the locked mountain wall's depth also varies per
+            // column (2–6 rows, the same mirror-symmetric walk), so the range
+            // bulges into lobes and pulls back into foothill valleys instead
+            // of a ruler line. The engine grows organic hills/peaks in the
+            // dips (the buffer band leaves height free there).
+            int[] rangeHalf = new int[half + 1];
+            double rwob = 0;
+            for (int k = 0; k <= half; k++)
+            {
+                rwob += (random.Next(3) - 1) * 0.9;
+                rwob = Math.Max(-1.5, Math.Min(3.5, rwob));
+                rangeHalf[k] = Math.Max(2, Math.Min(6, 3 + (int)Math.Round(rwob)));
+            }
+
+            // VOLCANIC HALF-ISLAND pressed against the sea edge: the cone juts
+            // out of the ocean at the map border (clipped by it — not a complete
+            // island), still sea-locked from the mainland by a guaranteed
+            // water ring on its inland side.
+            mIslandR = 3.0 + random.Next(6) / 10.0;          // 3.0–3.5
+            int islandD = 2;                                 // centre 2 rows off the edge
 
             // WANDERING spur seed-lines: per-row drift so the locked seeds aren't
             // dead-straight walls (the engine grows ridges around them). Drift is
@@ -284,7 +299,7 @@ namespace OwMapCreation
                     // the range) but leaves HEIGHT free — locking it flat used to
                     // force the engine's elevation into a trough along the lock
                     // boundary, which FillLakes then lined with a lake chain.
-                    if (d >= H - 3)
+                    if (d >= H - rangeHalf[Math.Min(k, half)])
                     {
                         if (xs > W * 0.08) LockLand(t, MOUNTAIN_HEIGHT, TEMPERATE_TERRAIN);
                         else
@@ -315,10 +330,10 @@ namespace OwMapCreation
                 }
             }
 
-            // VOLCANIC ISLAND in its lagoon BASIN — a real island (≈25–35 tiles):
-            // lush flats with a hill ring near the centre (slopes for the caldera
-            // and its gold), ringed by ≥2 tiles of locked water so it is always
-            // its own landmass. The basin also widens the lower bay naturally.
+            // The half-island: lush flats with a hill core (slopes for the
+            // caldera and its gold), clipped by the map edge, ringed by ≥2
+            // tiles of locked water on the sea side so it is always its own
+            // landmass — a cone rising out of the ocean at the map border.
             mIslandX = W / 2;
             mIslandY = mSeaSouth ? islandD : (H - 1 - islandD);
             int reach = (int)Math.Ceiling(mIslandR) + 2;
